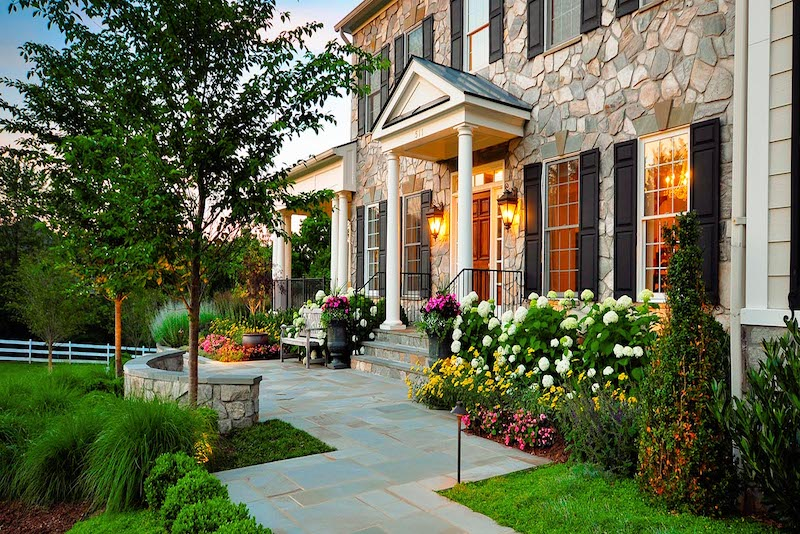
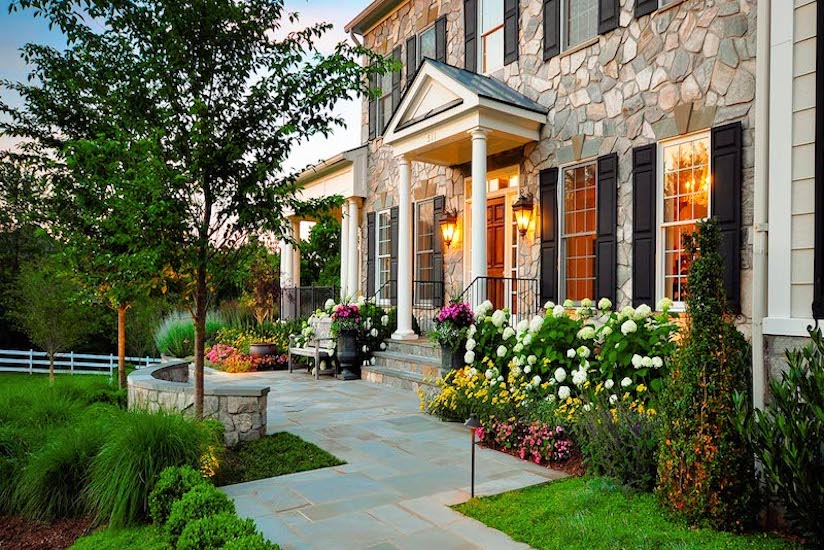
remove position relative for portfolio so that image will fit, added star rating for reviews

diff --git a/src/components/Review.js b/src/components/Review.js
@@ -2,6 +2,7 @@ import React from "react"
 import { MARKS } from "@contentful/rich-text-types"
 import RichTextToReact from "rich-text-to-react"
 import styled from "styled-components"
+import { FaStar } from "react-icons/fa"
 const ReviewComponent = styled.section`
   padding-bottom: 20px;
   .clientName {
@@ -11,14 +12,15 @@ const ReviewComponent = styled.section`
 `
 const Review = ({ review }) => {
   const { json } = review.review
+  const starTotal = 5
   return (
     <>
-      <ReviewComponent className="col-md-4 col-sm-6 col-xs-12 my-2">
+      <ReviewComponent className="col-md-4 col-sm-6 col-xs-12 my-2 ">
         <div className="clientNameStars">
-          <h6 className="px-4">
-            stars go here
-            <cite className="clientName">{review.clientName}</cite>
-          </h6>
+          <FaStar /> <FaStar /> <FaStar /> <FaStar /> <FaStar />
+          {/*   <h6 className="px-4 my-3">
+          </h6> */}
+          <cite className="clientName px-3 "> - {review.clientName}</cite>
         </div>
         {/* json for review */}
         <RichTextToReact document={json} options={RichTextOptions} />

diff --git a/src/components/Sections/Reviews.js b/src/components/Sections/Reviews.js
@@ -6,7 +6,7 @@ import Review from "../Review"
 
 const ReviewDiv = styled.section`
   width: 100%;
-  padding: 20px 20px;
+  padding: 40px 100px;
   margin: 0 auto;
 `
 const getReviews = graphql`
@@ -28,13 +28,13 @@ const Reviews = () => {
     <StaticQuery
       query={getReviews}
       render={data => {
-        const { json: review } = data.clientReview.edges[0].node.review
+        //    const { json: review } = data.clientReview.edges[0].node.review
 
         // console.log(clientNames)
         return (
           <ReviewDiv>
             <h2 className="text-center mt-4">Reviews</h2>
-            <hr className="divider my-4" />
+            <hr className="divider my-4 " />
             <div className="row">
               {data.clientReview.edges.map(reviewObj => {
                 const { node: review } = reviewObj

diff --git a/src/components/Sections/Images.js b/src/components/Sections/Images.js
@@ -68,7 +68,7 @@ export default class Images extends Component {
                             <div className="project-category text-white-50">
                               {/* Category */}
                             </div>
-                            <div className="project-name">{projectName}</div>
+                            <div className="project-name">{title}</div>
                           </div>
                         </a>
                       </div>

diff --git a/src/sass/_portfolio.scss b/src/sass/_portfolio.scss
@@ -13,7 +13,8 @@
       column-gap: 0px;
       .thumbnails {
         width: 100%;
-        object-fit: cover;
+        object-fit: cover !important;
+        position: static !important; // or else pictures might not fit
       }
       .portfolio-box-caption {
         display: flex;
